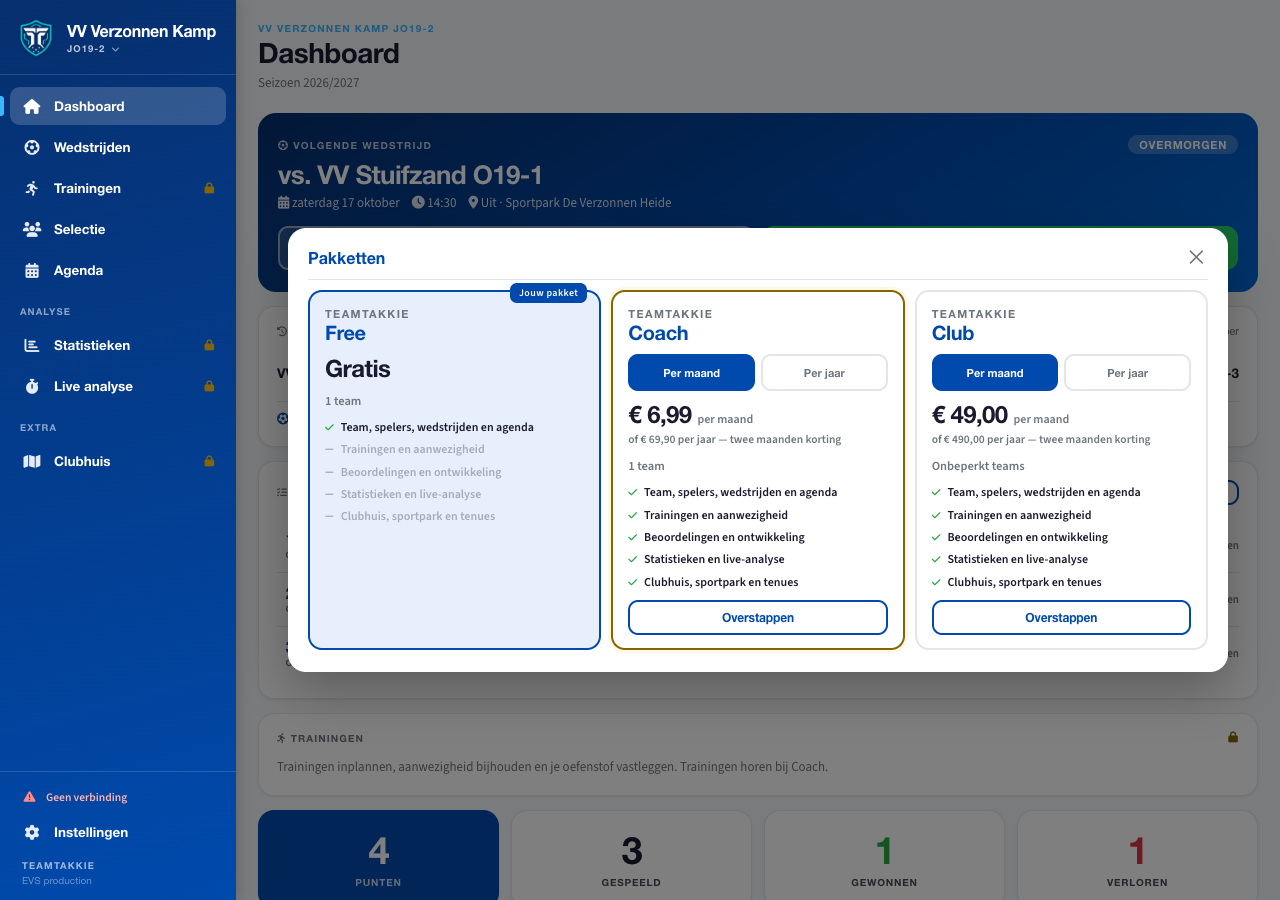
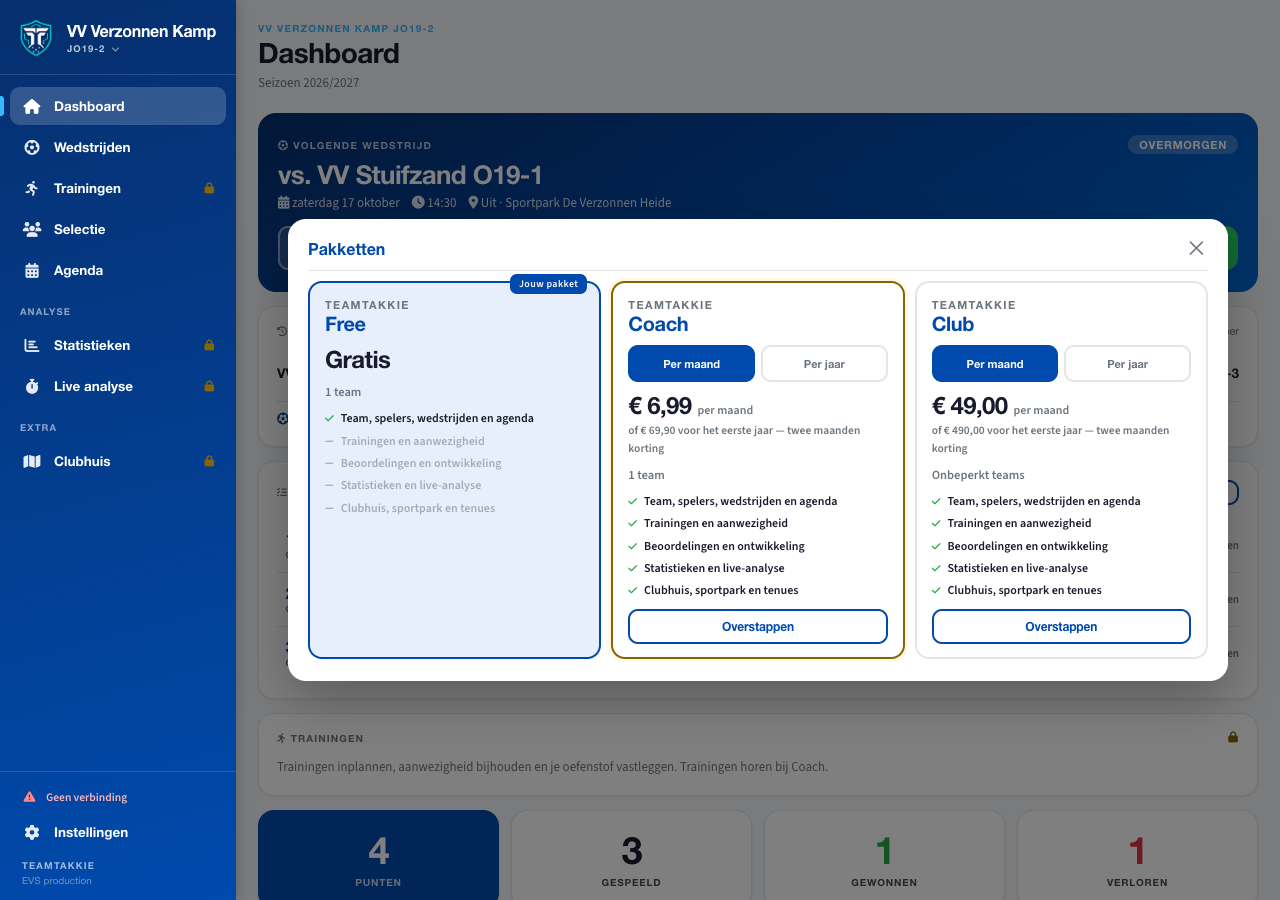
Jaarabonnement: eerste jaar vooruit, daarna per maand en maandelijks opzegbaar
Besluit van Evan (9 oktober 2026), na Wet Van Dam en de CBb-uitspraak
van 11 september 2026: na de eerste periode moet een
consumentenabonnement maandelijks opzegbaar zijn. Een tweede jaar vooruit
afschrijven past daar niet bij.

- _gedeeld/mollie.ts: doorlopendeIncasso() geeft altijd het maandbedrag
  en "1 month"; termijnVanVerlenging() leidt de termijn van een
  verlenging af uit het afgeschreven bedrag (jaarbedrag = oude
  jaarincasso, anders een maand).
- betaling-melding: de incasso na een jaaraankoop start na een jaar en
  schrijft dan per maand af; een verlenging boekt een maand, niet de
  termijn van de vorige betaling. Wissel naar het maandbedrag.
- abonnement-wisselen en abonnement-opzeggen (intrekken): maandbedrag.
- App: "of € 490 voor het eerste jaar"; bij per jaar "daarna € 49 per
  maand, maandelijks opzegbaar". Gouden origineel (free) opnieuw
  opgenomen: alleen die tekst verschilt.

deno 117/117, edge-mutaties J1/J2 gevangen (M8 opnieuw gericht).

Changed region(s): [[0.2188, 0.2178, 0.9688, 0.7778]]

diff --git a/supabase/functions/betaling-melding/index.ts b/supabase/functions/betaling-melding/index.ts
@@ -52,6 +52,8 @@ import {
   mollieSleutel,
   prijsCent,
   startDatumVolgendePeriode,
+  doorlopendeIncasso,
+  termijnVanVerlenging,
 } from "../_gedeeld/mollie.ts";
 import { type DbClient, maakDbClient } from "../_gedeeld/supabase.ts";
 
@@ -296,7 +298,9 @@ export async function behandelMelding(
       const incasso = abo.length > 0 && typeof abo[0].mollie_subscription_id === "string"
         ? abo[0].mollie_subscription_id as string
         : "";
-      const nieuwBedrag = prijsCent(wisselPakket, wisselTermijn);
+      // Het maandbedrag, ook bij een jaarabonnement: de incasso loopt
+      // per maand (doorlopendeIncasso in _gedeeld/mollie.ts).
+      const nieuwBedrag = doorlopendeIncasso(wisselPakket)?.bedragCent ?? null;
 
       if (pakketNu !== wisselPakket) {
         deps.log("wisselbetaling niet toegekend — incasso blijft ongewijzigd", {
@@ -313,7 +317,7 @@ export async function behandelMelding(
       } else {
         await mollie.wijzigAbonnement(klantId, incasso, {
           amount: { value: centenNaarBedrag(nieuwBedrag), currency: valuta },
-          description: `TEAMTAKKIE ${wisselPakket} (per ${wisselTermijn})`,
+          description: `TEAMTAKKIE ${wisselPakket} (per maand)`,
         });
         // PAS NA de bevestiging van Mollie. Dit veld betekent "wat
         // Mollie volgens ons afschrijft"; vooruitlopend invullen maakt
@@ -358,6 +362,11 @@ export async function behandelMelding(
         if (!clubId && typeof abo[0].club_id === "string") clubId = abo[0].club_id;
         if (!pakket && typeof abo[0].pakket === "string") pakket = abo[0].pakket as string;
       }
+      // De termijn van een verlenging volgt uit wat er nu is
+      // afgeschreven, en niet uit de vorige betaling: na een
+      // jaaraankoop is de incasso maandelijks (doorlopendeIncasso), en
+      // die eerste maandafschrijving zou anders een heel jaar opleveren.
+      if (!termijn && pakket) termijn = termijnVanVerlenging(pakket, bedragCent);
       if (!termijn || !pakket) {
         const eerder = await db.selecteer("betalingen", {
           select: "pakket,termijn",
@@ -453,16 +462,19 @@ export async function behandelMelding(
       const alAanwezig = abo.length > 0 &&
         typeof abo[0].mollie_subscription_id === "string" &&
         (abo[0].mollie_subscription_id as string) !== "";
-      const interval = mollieInterval(termijn);
-      if (!alAanwezig && interval) {
+      // De termijn van de AANKOOP bepaalt alleen wanneer de incasso
+      // begint (na een maand of na een jaar). Wat hij daarna afschrijft
+      // is altijd het maandbedrag — zie doorlopendeIncasso().
+      const incasso = mollieInterval(termijn) ? doorlopendeIncasso(pakket) : null;
+      if (!alAanwezig && incasso) {
         const abonnement = await mollie.maakAbonnement(klantId, {
-          amount: { value: centenNaarBedrag(bedragCent), currency: valuta },
-          interval,
+          amount: { value: centenNaarBedrag(incasso.bedragCent), currency: valuta },
+          interval: incasso.interval,
           // Zonder startDate incasseert Mollie meteen — bovenop de
           // betaling die zojuist is gedaan. Zie de uitleg bij
           // startDatumVolgendePeriode() in _gedeeld/mollie.ts.
           startDate: startDatumVolgendePeriode(new Date(betaaldOp), termijn),
-          description: `TEAMTAKKIE ${pakket} (per ${termijn})`,
+          description: `TEAMTAKKIE ${pakket} (per maand)`,
         });
         // In één schrijfactie met het nummer: een nieuwe incasso ÍS het
         // einde van een eerdere opzegging. Wie na het verlopen opnieuw
@@ -479,7 +491,7 @@ export async function behandelMelding(
         // voor iedereen die gewoon een abonnement koopt, en meldt
         // public.wissel_controle() straks elke club als "onbekend".
         await db.bijwerken("abonnementen", { club_id: "eq." + clubId }, {
-          mollie_bedrag_cent: bedragCent,
+          mollie_bedrag_cent: incasso.bedragCent,
         });
         deps.log("doorlopende incasso aangezet", {
           betaling: id,

diff --git a/supabase/functions/betaling-melding/index.test.ts b/supabase/functions/betaling-melding/index.test.ts
@@ -251,6 +251,26 @@ Deno.test("een verlenging zonder metadata wordt via het klantnummer gevonden", a
   const rpc = op.dbAanroepen.find((a) => a.soort === "rpc");
   gelijk(rpc?.argumenten?.p_club, CLUB);
   gelijk(rpc?.argumenten?.p_pakket, "coach");
+  // De termijn volgt uit het afgeschreven bedrag (€ 6,99 = een maand),
+  // niet uit de vorige betaling (die was "jaar"). Anders levert de eerste
+  // maandafschrijving na een jaaraankoop een heel jaar op.
+  gelijk(rpc?.argumenten?.p_termijn, "maand");
+});
+
+Deno.test("een oude jaarincasso (van vóór 9 oktober) telt nog als een jaar", async () => {
+  const op = opstelling({
+    mollieAntwoorden: {
+      ["GET /v2/payments/" + BETALING]: {
+        body: nepBetaling({ metadata: null, amount: { value: "69.90", currency: "EUR" } }),
+      },
+    },
+    rijen: {
+      abonnementen: [{ club_id: CLUB, pakket: "coach", mollie_subscription_id: "sub_8JfGzs6v3K" }],
+      betalingen: [{ pakket: "coach", termijn: "maand" }],
+    },
+  });
+  await behandelMelding(melding(BETALING), op.deps);
+  const rpc = op.dbAanroepen.find((a) => a.soort === "rpc");
   gelijk(rpc?.argumenten?.p_termijn, "jaar");
 });
 
@@ -335,7 +355,9 @@ Deno.test("een tweede melding maakt GEEN tweede subscription", async () => {
   gelijk(op.mollieAanroepen.filter((a) => a.url.endsWith("/subscriptions")).length, 0);
 });
 
-Deno.test("een jaarabonnement krijgt het jaarinterval", async () => {
+Deno.test("na een jaaraankoop begint de incasso over een jaar, en dan PER MAAND", async () => {
+  // Besluit 9 oktober 2026 (Wet Van Dam, CBb 11 september 2026): na het
+  // eerste jaar maandelijks opzegbaar, dus maandelijks afschrijven.
   const op = opstelling({
     mollieAntwoorden: {
       ["GET /v2/payments/" + BETALING]: {
@@ -349,8 +371,11 @@ Deno.test("een jaarabonnement krijgt het jaarinterval", async () => {
   });
   await behandelMelding(melding(BETALING), op.deps);
   const abo = op.mollieAanroepen.find((a) => a.url.endsWith("/subscriptions"));
-  gelijk(abo?.body?.interval, "12 months");
-  gelijk(abo?.body?.startDate, "2027-09-19");
+  gelijk(abo?.body?.interval, "1 month");
+  gelijk(abo?.body?.amount, { value: "49.00", currency: "EUR" }, "het maandbedrag, niet € 490");
+  gelijk(abo?.body?.startDate, "2027-09-19", "pas na het betaalde jaar");
+  const bedrag = op.dbAanroepen.filter((a) => a.soort === "bijwerken" && a.tabel === "abonnementen")[1];
+  gelijk(bedrag?.velden, { mollie_bedrag_cent: 4900 });
 });
 
 // ── 7. Wat er misgaat ────────────────────────────────────────
@@ -663,7 +688,10 @@ Deno.test("na een doorgevoerde wissel wordt de LOPENDE incasso gewijzigd, niet e
   gelijk(bedrag?.vraag, { club_id: "eq." + CLUB_CLAIM });
 });
 
-Deno.test("een jaarwissel zet de incasso op het jaarbedrag", async () => {
+Deno.test("een jaarwissel zet de incasso op het MAANDbedrag (de incasso loopt per maand)", async () => {
+  // Besluit 9 oktober 2026: na een jaaraankoop loopt de incasso per
+  // maand (doorlopendeIncasso). € 490 op een maandelijkse incasso zou
+  // elke maand een jaarbedrag afschrijven.
   const op = wisselOpstelling({
     rijen: {
       abonnement_wissels: [openClaim({ termijn: "jaar" })],
@@ -672,11 +700,11 @@ Deno.test("een jaarwissel zet de incasso op het jaarbedrag", async () => {
   });
   await behandelMelding(melding(BETALING), op.deps);
   const patch = op.mollieAanroepen.find((a) => a.methode === "PATCH");
-  gelijk(patch?.body?.amount, { value: "490.00", currency: "EUR" });
+  gelijk(patch?.body?.amount, { value: "49.00", currency: "EUR" });
   const bedrag = op.dbAanroepen.find(
     (a) => a.soort === "bijwerken" && a.tabel === "abonnementen",
   );
-  gelijk(bedrag?.velden, { mollie_bedrag_cent: 49000 });
+  gelijk(bedrag?.velden, { mollie_bedrag_cent: 4900 });
 });
 
 // ── 9e. De wissel is NIET doorgevoerd ────────────────────────

diff --git a/online/index.html b/online/index.html
@@ -3006,7 +3006,7 @@ window.addEventListener("error", function(e){
 });
 </script>
 <script>
-const APP_VERSIE = "9573516";
+const APP_VERSIE = "9b03bf3";
 const TEAMS_KEY = "tt_teams_v1";
 const ACTIEF_KEY = "tt_actief_v1";
 const VOORKEUR_KEY = "tt_voorkeuren_v1";
@@ -8836,8 +8836,7 @@ function WisselUitleg({ offerte, pakket, huidig, prijs }) {
     return /* @__PURE__ */ React.createElement("p", { style: stijl }, "De betaling van ", centenAlsEuro(offerte.bedrag_cent), " is aangevraagd. Zodra die binnen is, heb je ", pakket.naam, ". Via een automatische incasso kan dat een paar werkdagen duren.");
   }
   if (!offerte.mag) return /* @__PURE__ */ React.createElement("p", { style: stijl }, offerte.reden);
-  var per = offerte.termijn === "jaar" ? "jaar" : "maand";
-  var straks = prijs && prijs[per] ? " Daarna betaal je " + prijs[per].replace(" ", "\xA0") + " per " + per + "." : "";
+  var straks = prijs && prijs.maand ? " Daarna betaal je " + prijs.maand.replace(" ", "\xA0") + " per maand." : "";
   var tot = offerte.geldig_tot ? " tot " + datumLang(offerte.geldig_tot) : "";
   if (offerte.soort === "downgrade") {
     return /* @__PURE__ */ React.createElement("p", { style: stijl }, "Gaat meteen in en kost niets. Wat alleen bij ", huidig.naam, " hoort, staat dan meteen uit. Je einddatum blijft hetzelfde.", straks);
@@ -8965,7 +8964,7 @@ function PakkettenSheet({ onSluiten, nadruk }) {
           /* @__PURE__ */ React.createElement("span", null, tm.label)
         );
       })
-    ), prijs.maand && /* @__PURE__ */ React.createElement("div", { className: "pakket-prijs" }, /* @__PURE__ */ React.createElement("div", { className: "pakket-prijs-rij" }, /* @__PURE__ */ React.createElement("span", { className: "pakket-prijs-bedrag" }, jaar ? prijs.jaar : prijs.maand), prijs.jaar && /* @__PURE__ */ React.createElement("span", { className: "pakket-prijs-per" }, jaar ? "per jaar" : "per maand")), prijs.jaar && !(betaaldNu && kanKiezen) && /* @__PURE__ */ React.createElement("div", { className: "pakket-prijs-jaar" }, jaar ? "of " + prijs.maand + " per maand" : "of " + prijs.jaar + " per jaar \u2014 twee maanden korting")), /* @__PURE__ */ React.createElement("div", { className: "pakket-teams" }, p.teams === Infinity ? "Onbeperkt teams" : p.teams + (p.teams === 1 ? " team" : " teams")), /* @__PURE__ */ React.createElement("ul", { className: "pakket-lijst" }, MODULES.map(function(m) {
+    ), prijs.maand && /* @__PURE__ */ React.createElement("div", { className: "pakket-prijs" }, /* @__PURE__ */ React.createElement("div", { className: "pakket-prijs-rij" }, /* @__PURE__ */ React.createElement("span", { className: "pakket-prijs-bedrag" }, jaar ? prijs.jaar : prijs.maand), prijs.jaar && /* @__PURE__ */ React.createElement("span", { className: "pakket-prijs-per" }, jaar ? "per jaar" : "per maand")), prijs.jaar && !(betaaldNu && kanKiezen) && /* @__PURE__ */ React.createElement("div", { className: "pakket-prijs-jaar" }, jaar ? "het eerste jaar; daarna " + prijs.maand + " per maand, maandelijks opzegbaar" : "of " + prijs.jaar + " voor het eerste jaar \u2014 twee maanden korting")), /* @__PURE__ */ React.createElement("div", { className: "pakket-teams" }, p.teams === Infinity ? "Onbeperkt teams" : p.teams + (p.teams === 1 ? " team" : " teams")), /* @__PURE__ */ React.createElement("ul", { className: "pakket-lijst" }, MODULES.map(function(m) {
       const aan = p.modules.indexOf(m) >= 0;
       return /* @__PURE__ */ React.createElement("li", { key: m, className: aan ? "aan" : "uit" }, /* @__PURE__ */ React.createElement("i", { className: aan ? "fa-solid fa-check" : "fa-solid fa-minus" }), MODULE_LABEL[m] || m);
     })), offerte !== null && /* @__PURE__ */ React.createElement(WisselUitleg, { offerte, pakket: p, huidig: nu, prijs }), offerte && offerte.mag && !offerte.onderweg && offerte.soort !== "niets" && /* @__PURE__ */ React.createElement(

diff --git a/src/schermen/instellingen.jsx b/src/schermen/instellingen.jsx
@@ -778,8 +778,9 @@ function WisselUitleg({ offerte, pakket, huidig, prijs }) {
     );
   }
   if (!offerte.mag) return <p style={stijl}>{offerte.reden}</p>;
-  var per = offerte.termijn === "jaar" ? "jaar" : "maand";
-  var straks = (prijs && prijs[per]) ? " Daarna betaal je " + prijs[per].replace(" ", " ") + " per " + per + "." : "";
+  /* Daarna altijd per maand: ook na een jaaraankoop loopt de incasso
+     maandelijks (besluit 9 oktober 2026). */
+  var straks = (prijs && prijs.maand) ? " Daarna betaal je " + prijs.maand.replace(" ", "\u00a0") + " per maand." : "";
   var tot = offerte.geldig_tot ? " tot " + datumLang(offerte.geldig_tot) : "";
   if (offerte.soort === "downgrade") {
     return (
@@ -986,8 +987,14 @@ function PakkettenSheet({ onSluiten, nadruk }) {
                     </div>
                     {prijs.jaar && !(betaaldNu && kanKiezen) && (
                       <div className="pakket-prijs-jaar">
-                        {jaar ? ("of " + prijs.maand + " per maand")
-                              : ("of " + prijs.jaar + " per jaar \u2014 twee maanden korting")}
+                        {/* "Per jaar" is sinds 9 oktober 2026 het EERSTE jaar:
+                            daarna loopt het per maand door en is het maandelijks
+                            opzegbaar (doorlopendeIncasso in
+                            supabase/functions/_gedeeld/mollie.ts). "€ 490 per
+                            jaar" zonder meer zou een tweede jaar beloven dat
+                            de software niet afschrijft. */}
+                        {jaar ? ("het eerste jaar; daarna " + prijs.maand + " per maand, maandelijks opzegbaar")
+                              : ("of " + prijs.jaar + " voor het eerste jaar \u2014 twee maanden korting")}
                       </div>
                     )}
                   </div>

diff --git a/supabase/functions/_gedeeld/mollie.ts b/supabase/functions/_gedeeld/mollie.ts
@@ -110,6 +110,35 @@ export function prijsCent(pakket: unknown, termijn: unknown): number | null {
   return typeof bedrag === "number" ? bedrag : null;
 }
 
+/* Wat de DOORLOPENDE incasso afschrijft — los van hoe er de eerste
+   keer is betaald.
+
+   Besluit van Evan (9 oktober 2026): een jaarabonnement wordt het
+   eerste jaar vooruit betaald, en gaat daarna over op het maandbedrag,
+   maandelijks opzegbaar. Na de eerste periode mag een
+   consumentenabonnement alleen doorlopen als het maandelijks opzegbaar
+   is (Wet Van Dam; het CBb bevestigde dat op 11 september 2026), en
+   automatisch nog een heel jaar vooruit afschrijven past daar niet bij.
+
+   De incasso is dus ALTIJD maandelijks, ook na een jaaraankoop. Wie
+   hier "voor de netheid" weer de termijn van de aankoop gebruikt,
+   schrijft na een jaar € 490 af bij iemand die per maand mag stoppen. */
+export function doorlopendeIncasso(
+  pakket: string,
+): { bedragCent: number; interval: string } | null {
+  const bedrag = prijsCent(pakket, "maand");
+  return bedrag === null ? null : { bedragCent: bedrag, interval: "1 month" };
+}
+
+/* Welke termijn hoort bij een afschrijving van de doorlopende incasso?
+   Sinds het besluit hierboven altijd een maand — behalve bij een
+   incasso van vóór 9 oktober 2026 die nog per jaar loopt; die herkennen
+   we aan het jaarbedrag. Het bedrag komt van Mollie, niet van de
+   aanvrager, dus dit is geen gok op iets wat iemand kan sturen. */
+export function termijnVanVerlenging(pakket: string, bedragCent: number): string {
+  return prijsCent(pakket, "jaar") === bedragCent ? "jaar" : "maand";
+}
+
 /* 699 wordt "6.99". Mollie wil het bedrag als tekst met precies twee
    decimalen en een punt, niet als getal — een getal zou onderweg een
    kommagetal worden en dat is de bekendste rekenfout met geld. */

diff --git a/supabase/functions/abonnement-wisselen/index.ts b/supabase/functions/abonnement-wisselen/index.ts
@@ -44,6 +44,7 @@
 import {
   beoordeelWissel,
   centenNaarBedrag,
+  doorlopendeIncasso,
   type Fetcher,
   GEEN_SLEUTEL_TEKST,
   maakMollie,
@@ -254,7 +255,9 @@ export async function behandelWissel(
 
       // ── 6b. En dan de incasso bij Mollie ───────────────────
       //  Het pakket staat nu goed. Wat Mollie afschrijft nog niet.
-      const nieuwBedrag = prijsCent(naarPakket, feiten.termijn ?? "");
+      // Het maandbedrag, ook bij een jaarabonnement: de incasso loopt
+      // per maand (doorlopendeIncasso in _gedeeld/mollie.ts).
+      const nieuwBedrag = doorlopendeIncasso(naarPakket)?.bedragCent ?? null;
       if (!feiten.mollieSubscriptionId || !klantId || nieuwBedrag === null) {
         // Een downgrade mag ook zonder doorlopende incasso doorgaan —
         // maar dan hoort dat hier hard in het logboek te staan, want
@@ -280,7 +283,7 @@ export async function behandelWissel(
         const mollie = deps.mollie();
         await mollie.wijzigAbonnement(klantId, feiten.mollieSubscriptionId, {
           amount: { value: centenNaarBedrag(nieuwBedrag), currency: "EUR" },
-          description: `TEAMTAKKIE ${naarPakket} (per ${feiten.termijn})`,
+          description: `TEAMTAKKIE ${naarPakket} (per maand)`,
         });
       } catch (f) {
         // Het pakket staat al goed en dat draaien we niet terug — dat

diff --git a/supabase/functions/abonnement-opzeggen/index.ts b/supabase/functions/abonnement-opzeggen/index.ts
@@ -44,6 +44,7 @@
 import {
   beoordeelOpzegging,
   centenNaarBedrag,
+  doorlopendeIncasso,
   type Fetcher,
   GEEN_SLEUTEL_TEKST,
   maakMollie,
@@ -310,17 +311,20 @@ export async function behandelOpzegging(
       return fout("We kunnen deze vereniging niet bij de betaaldienst vinden. Neem contact op.", 400);
     }
     const termijn = feiten.termijn as string;
-    const bedragCent = prijsCent(feiten.pakket, termijn) as number;
+    // Maandelijks, ook na een jaaraankoop (doorlopendeIncasso). Het
+    // oordeel heeft al gecontroleerd dat pakket en termijn bekend zijn.
+    const incasso = doorlopendeIncasso(feiten.pakket) as { bedragCent: number; interval: string };
+    const bedragCent = incasso.bedragCent;
     const mollie = deps.mollie();
     let nieuwId = "";
     try {
       const abo = await mollie.maakAbonnement(klantId, {
         amount: { value: centenNaarBedrag(bedragCent), currency: "EUR" },
-        interval: mollieInterval(termijn),
+        interval: incasso.interval,
         // De einddatum is betaald. De eerste nieuwe afschrijving hoort
         // dáár, niet vandaag — anders betaalt de club een periode dubbel.
         startDate: geldigTot,
-        description: `TEAMTAKKIE ${feiten.pakket} (per ${termijn})`,
+        description: `TEAMTAKKIE ${feiten.pakket} (per maand)`,
       });
       nieuwId = abo.id;
     } catch (f) {

diff --git a/supabase/functions/abonnement-opzeggen/index.test.ts b/supabase/functions/abonnement-opzeggen/index.test.ts
@@ -313,11 +313,13 @@ Deno.test("intrekken: nieuwe incasso die OP DE EINDDATUM ingaat, dan pas de data
   });
 });
 
-Deno.test("intrekken: het bedrag komt uit PRIJZEN, ook als de body iets anders zegt", async () => {
+Deno.test("intrekken: het bedrag komt uit PRIJZEN (per maand), ook als de body iets anders zegt", async () => {
   const op = opstelling({ rij: { opgezegd: true, mollie_subscription_id: null, pakket: "club", termijn: "jaar" } });
   await behandelOpzegging(verzoek("intrekken", { bedrag_cent: 1 }), op.deps);
-  gelijk(op.mollieAanroepen[0]?.body?.amount, { value: "490.00", currency: "EUR" });
-  gelijk(op.mollieAanroepen[0]?.body?.interval, "12 months");
+  // Club per jaar: de incasso loopt na de einddatum per maand (besluit
+  // 9 oktober 2026), dus het maandbedrag van Club.
+  gelijk(op.mollieAanroepen[0]?.body?.amount, { value: "49.00", currency: "EUR" });
+  gelijk(op.mollieAanroepen[0]?.body?.interval, "1 month");
 });
 
 Deno.test("intrekken: lukt het bij Mollie niet, dan blijft de opzegging gewoon staan", async () => {

diff --git a/tests/edge-mutaties.py b/tests/edge-mutaties.py
@@ -91,8 +91,8 @@ MUTATIES = [
 
     ("M8  een tweede melding maakt tóch een tweede subscription",
      "functions/betaling-melding/index.ts",
-     '      if (!alAanwezig && interval) {',
-     '      if (interval) {'),
+     '      if (!alAanwezig && incasso) {',
+     '      if (incasso) {'),
 
     ("M9  de subscription begint meteen (startDate weg)",
      "functions/betaling-melding/index.ts",
@@ -144,6 +144,17 @@ MUTATIES = [
      "functions/betaling-melding/index.ts",
      '    if (klantId && eersteAankoop) {',
      '    if (klantId) {'),
+
+    # ── jaarabonnement: daarna per maand (9 oktober 2026) ─────
+    ("J1  de incasso na een jaaraankoop schrijft weer een jaar af",
+     "functions/_gedeeld/mollie.ts",
+     '  const bedrag = prijsCent(pakket, "maand");\n  return bedrag === null ? null : { bedragCent: bedrag, interval: "1 month" };',
+     '  const bedrag = prijsCent(pakket, "jaar");\n  return bedrag === null ? null : { bedragCent: bedrag, interval: "12 months" };'),
+
+    ("J2  een verlenging neemt de termijn van de vorige betaling over",
+     "functions/betaling-melding/index.ts",
+     '      if (!termijn && pakket) termijn = termijnVanVerlenging(pakket, bedragCent);',
+     ''),
 ]
 
 
